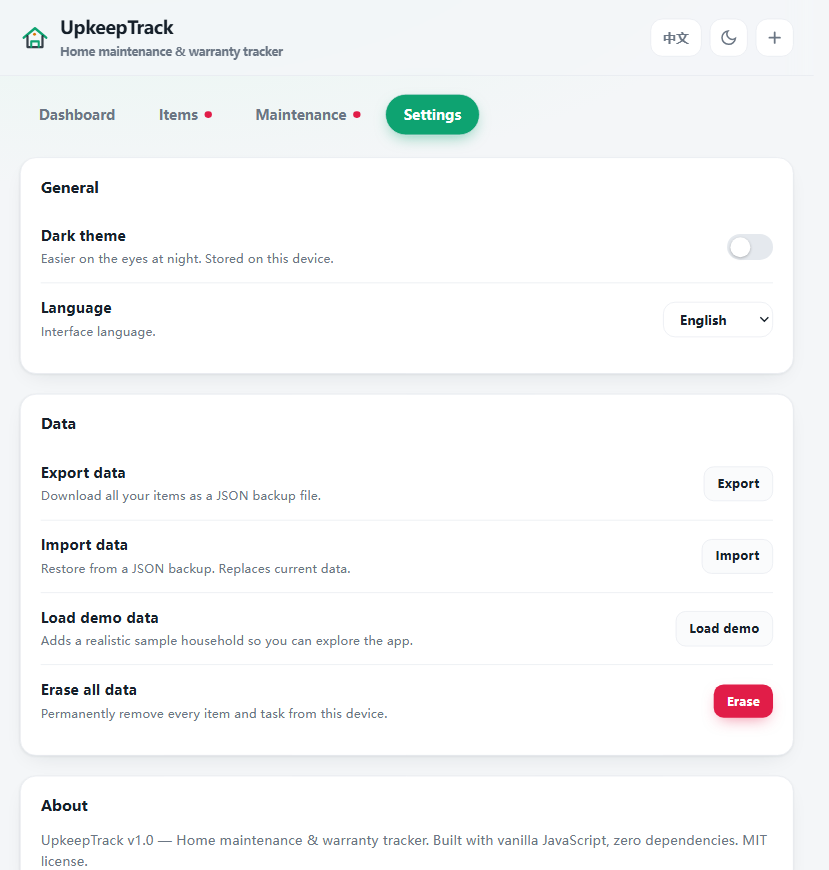
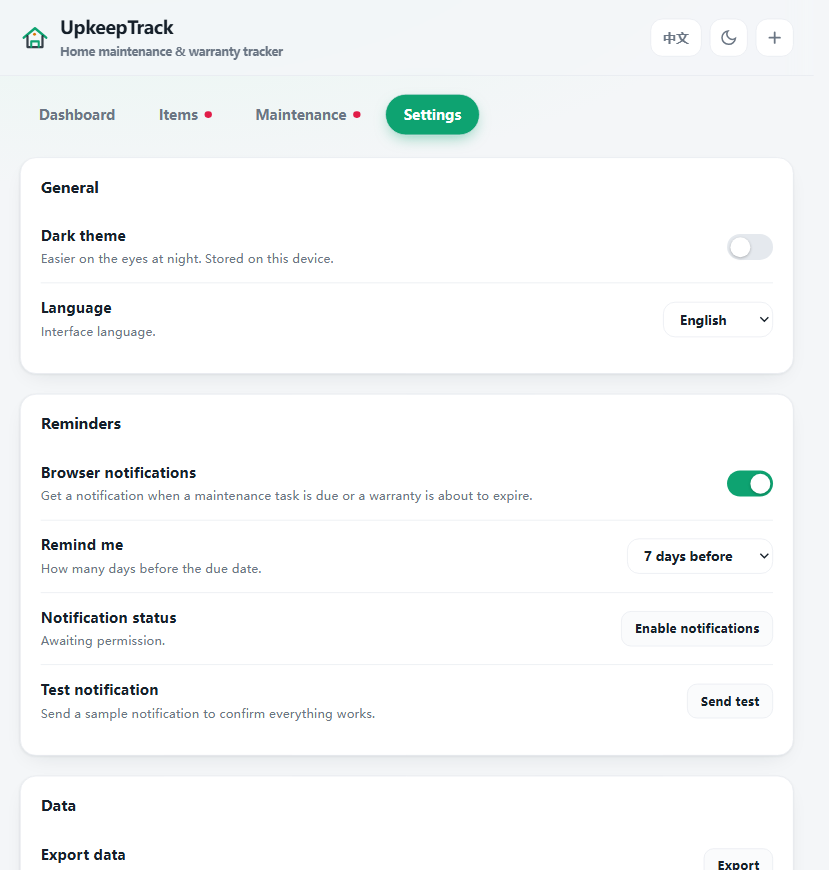
Add browser notification reminders (configurable lead time, EN/ZH)

diff --git a/index.html b/index.html
@@ -435,6 +435,43 @@ footer a{color:var(--muted);font-weight:600}
   </div>
 
   <div class="panel">
+    <h3><span id="set-reminders">Reminders</span></h3>
+    <div class="set-row">
+      <div class="grow">
+        <h4 id="set-notif">Browser notifications</h4>
+        <p id="set-notif-desc">Get a notification when a task is due or a warranty is about to expire.</p>
+      </div>
+      <label class="switch"><input type="checkbox" id="notifToggle"><span></span></label>
+    </div>
+    <div class="set-row">
+      <div class="grow">
+        <h4 id="set-lead">Remind me</h4>
+        <p id="set-lead-desc">How many days before the due date.</p>
+      </div>
+      <select class="filter" id="leadSelect" style="min-width:130px">
+        <option value="0">On the due day</option>
+        <option value="1">1 day before</option>
+        <option value="3">3 days before</option>
+        <option value="7">7 days before</option>
+      </select>
+    </div>
+    <div class="set-row">
+      <div class="grow">
+        <h4 id="set-perm">Notification status</h4>
+        <p id="permStatus" style="max-width:420px"></p>
+      </div>
+      <button class="btn ghost sm" id="permBtn">Enable notifications</button>
+    </div>
+    <div class="set-row">
+      <div class="grow">
+        <h4 id="set-test">Test notification</h4>
+        <p id="set-test-desc">Send a sample notification to confirm everything works.</p>
+      </div>
+      <button class="btn ghost sm" id="testBtn">Send test</button>
+    </div>
+  </div>
+
+  <div class="panel">
     <h3><span id="set-data">Data</span></h3>
     <div class="set-row">
       <div class="grow">
@@ -518,6 +555,15 @@ const I18N = {
     taskDone:"Task marked as done", itemSaved:"Item saved", dataImported:"Data imported", dataExported:"Data exported",
     demoLoaded:"Demo data loaded", allCleared:"All data erased", invalidFile:"Invalid backup file",
     nameRequired:"Please enter a name.", taskNameReq:"Please enter a task name and a valid interval.",
+    setReminders:"Reminders", setNotif:"Browser notifications", setNotifDesc:"Get a notification when a maintenance task is due or a warranty is about to expire.",
+    setLead:"Remind me", setLeadDesc:"How many days before the due date.",
+    lead0:"On the due day", lead1:"1 day before", lead3:"3 days before", lead7:"7 days before",
+    setPerm:"Notification status", permBtn:"Enable notifications",
+    setTest:"Test notification", setTestDesc:"Send a sample notification to confirm everything works.", testBtn:"Send test",
+    permUnsupported:"Not supported by this browser.", permGranted:"Enabled — you will be notified.", permDefault:"Awaiting permission.", permDenied:"Blocked in browser settings.",
+    permInsecure:"Browser notifications need http://localhost or https — open the app via a local server (file:// blocks them).",
+    notifEnabled:"Notifications enabled", notifDisabled:"Notifications disabled", testSent:"Test notification sent", notifUnavailable:"Notifications unavailable here — open the app via http://localhost.",
+    ntfTask:"Maintenance due", ntfWarranty:"Warranty", ntfExpires:"Expires", ntfDue:"Due", ntfOverdue:"overdue",
     nextUp:"Next task", noTasks:"No maintenance tasks yet.",
     setGeneral:"General", setTheme:"Dark theme", setThemeDesc:"Easier on the eyes at night. Stored on this device.",
     setLang:"Language", setLangDesc:"Interface language.",
@@ -560,6 +606,15 @@ const I18N = {
     taskDone:"任务已标记完成", itemSaved:"已保存物品", dataImported:"已导入数据", dataExported:"已导出数据",
     demoLoaded:"已载入示例数据", allCleared:"已清除全部数据", invalidFile:"备份文件无效",
     nameRequired:"请输入名称。", taskNameReq:"请输入任务名称和有效的间隔天数。",
+    setReminders:"提醒", setNotif:"浏览器通知", setNotifDesc:"保养任务到期或保修即将过期时，通过浏览器通知提醒你。",
+    setLead:"提前提醒", setLeadDesc:"在到期日前多少天提醒。",
+    lead0:"到期当天", lead1:"提前 1 天", lead3:"提前 3 天", lead7:"提前 7 天",
+    setPerm:"通知状态", permBtn:"开启通知",
+    setTest:"测试通知", setTestDesc:"发送一条示例通知，确认一切正常。", testBtn:"发送测试",
+    permUnsupported:"当前浏览器不支持通知。", permGranted:"已开启——到期时会收到提醒。", permDefault:"等待授权。", permDenied:"已在浏览器设置中被阻止。",
+    permInsecure:"浏览器通知需要 http://localhost 或 https——请通过本地服务器打开应用（file:// 下不可用）。",
+    notifEnabled:"已开启通知", notifDisabled:"已关闭通知", testSent:"测试通知已发送", notifUnavailable:"当前环境无法发送通知——请通过 http://localhost 打开应用。",
+    ntfTask:"保养任务到期", ntfWarranty:"保修", ntfExpires:"到期", ntfDue:"到期", ntfOverdue:"已逾期",
     nextUp:"下一任务", noTasks:"还没有保养任务。",
     setGeneral:"通用", setTheme:"深色主题", setThemeDesc:"夜间更护眼，仅保存在本设备。",
     setLang:"语言", setLangDesc:"界面语言。",
@@ -597,7 +652,7 @@ const OVERDUE = "overdue", DUE = "due", SOON = "soon", LATER = "later", UNSCHEDU
 
 /* ---------- 3. State & persistence ---------- */
 const LS_KEY = "upkeeptrack.v1";
-let state = { items: [], theme: "light", lang: "en" };
+let state = { items: [], theme: "light", lang: "en", notify: { enabled:false, lead:1 }, notified: {} };
 
 function save(){
   localStorage.setItem(LS_KEY, JSON.stringify(state));
@@ -611,6 +666,11 @@ function load(){
     state.items.forEach(it => { if(!it.id) it.id = uid(); }); // normalize legacy backups
     state.theme = data.theme === "dark" ? "dark" : "light";
     state.lang = data.lang === "zh" ? "zh" : "en";
+    state.notify = {
+      enabled: !!(data.notify && data.notify.enabled),
+      lead: (data.notify && Number.isFinite(Number(data.notify.lead))) ? Number(data.notify.lead) : 1
+    };
+    state.notified = (data.notified && typeof data.notified === "object") ? data.notified : {};
   }catch(e){ /* corrupted storage → start fresh */ }
 }
 
@@ -721,7 +781,10 @@ function applyStatic(){
     "set-data":"setData", "set-export":"setExport", "set-export-desc":"setExportDesc",
     "set-import":"setImport", "set-import-desc":"setImportDesc",
     "set-demo":"setDemo", "set-demo-desc":"setDemoDesc",
-    "set-clear":"setClear", "set-clear-desc":"setClearDesc", "set-about":"setAbout"
+    "set-clear":"setClear", "set-clear-desc":"setClearDesc", "set-about":"setAbout",
+    "set-reminders":"setReminders", "set-notif":"setNotif", "set-notif-desc":"setNotifDesc",
+    "set-lead":"setLead", "set-lead-desc":"setLeadDesc", "set-perm":"setPerm",
+    "set-test":"setTest", "set-test-desc":"setTestDesc"
   };
   for(const id in map){ const n = document.getElementById(id); if(n) n.textContent = t(map[id]); }
   $("#searchInput").placeholder = t("searchPlaceholder");
@@ -734,6 +797,14 @@ function applyStatic(){
      <option value="expired">${t("stExpired")}</option>
      <option value="none">${t("stNone")}</option>`;
   $("#statusFilter").value = statusFilter;
+  $("#leadSelect").innerHTML =
+    `<option value="0">${t("lead0")}</option>
+     <option value="1">${t("lead1")}</option>
+     <option value="3">${t("lead3")}</option>
+     <option value="7">${t("lead7")}</option>`;
+  $("#leadSelect").value = state.notify.lead;
+  $("#notifToggle").checked = state.notify.enabled;
+  renderPermStatus();
 }
 
 function render(){
@@ -936,7 +1007,7 @@ function renderMaintenance(){
 
 /* --- Settings --- */
 function renderSettings(){
-  $("#about-text").textContent = `UpkeepTrack v1.0 — ${t("tagline")}. Built with vanilla JavaScript, zero dependencies. MIT license.`;
+  $("#about-text").textContent = `UpkeepTrack v1.1 — ${t("tagline")}. Built with vanilla JavaScript, zero dependencies. MIT license.`;
 }
 
 /* ---------- 7. Modals ---------- */
@@ -1119,6 +1190,79 @@ function toast(msg){
   setTimeout(() => { n.style.opacity = "0"; n.style.transition = "opacity .3s"; setTimeout(() => n.remove(), 300); }, 2200);
 }
 
+/* ---------- 8b. Browser notifications engine ---------- */
+const notifySupported = () => ("Notification" in window);
+
+// Fire one system notification; returns false when the environment cannot show it.
+function fireNotification(title, body){
+  try{
+    if(!notifySupported() || Notification.permission !== "granted" || !window.isSecureContext) return false;
+    const n = new Notification(title, { body, tag: "upkeeptrack" });
+    n.onclick = () => { window.focus(); n.close(); };
+    return true;
+  }catch(e){ return false; }
+}
+
+// Called on start and every minute: notify once per due event (task/warranty) per occurrence.
+function checkReminders(){
+  if(!state.notify.enabled || !notifySupported() || Notification.permission !== "granted" || !window.isSecureContext) return;
+  const today = todayISO();
+  const horizon = addDaysTo(today, state.notify.lead ?? 1);
+  let fired = 0;
+  state.items.forEach(it => {
+    const end = warrantyEnd(it);
+    if(end && end <= horizon){
+      const key = "w:" + it.id + ":" + end;
+      if(!state.notified[key]){
+        const st = warrantyStatus(it);
+        const rel = st === EXPIRED ? t("ntfOverdue") : fmtRel(end);
+        const title = t("ntfWarranty") + " " + t(st === EXPIRED ? "warrantyExpired" : "warrantyExpiring") + ": " + it.name;
+        if(fireNotification(title, t("ntfExpires") + " " + fmtDate(end) + " (" + rel + ")")){
+          state.notified[key] = today; fired++;
+        }
+      }
+    }
+    allTasks(it).forEach(tk => {
+      const due = nextDue(tk);
+      if(due && due <= horizon){
+        const key = "t:" + it.id + ":" + tk.id + ":" + due;
+        if(!state.notified[key]){
+          const st = taskStatus(tk);
+          const rel = st === OVERDUE ? t("ntfOverdue") : fmtRel(due);
+          const title = t("ntfTask") + ": " + tk.name;
+          if(fireNotification(title, it.name + " — " + t("ntfDue") + " " + fmtDate(due) + " (" + rel + ")")){
+            state.notified[key] = today; fired++;
+          }
+        }
+      }
+    });
+  });
+  if(fired > 0){
+    // Drop keys older than a week to keep storage small.
+    const cutoff = addDaysTo(today, -7);
+    Object.keys(state.notified).forEach(k => { if(state.notified[k] < cutoff) delete state.notified[k]; });
+    save();
+  }
+}
+
+// Reflect the current notification permission state in the Settings panel.
+function renderPermStatus(){
+  const status = $("#permStatus"), btn = $("#permBtn");
+  if(!notifySupported()){ status.textContent = t("permUnsupported"); btn.style.display = "none"; return; }
+  btn.style.display = "";
+  const p = Notification.permission;
+  if(p === "granted"){
+    status.textContent = window.isSecureContext ? t("permGranted") : t("permInsecure");
+    btn.textContent = t("testBtn");
+  }else if(p === "denied"){
+    status.textContent = t("permDenied") + " " + t("permInsecure");
+    btn.textContent = t("permBtn");
+  }else{
+    status.textContent = t("permDefault");
+    btn.textContent = t("permBtn");
+  }
+}
+
 /* ---------- 9. Global events ---------- */
 function switchView(name){
   document.querySelectorAll(".tab").forEach(b => b.classList.toggle("active", b.dataset.view === name));
@@ -1171,6 +1315,60 @@ function setLang(l){
 }
 
 // Settings actions.
+$("#notifToggle").addEventListener("change", async e => {
+  const want = e.target.checked;
+  if(!want){
+    state.notify.enabled = false; save(); render();
+    toast(t("notifDisabled")); return;
+  }
+  if(!notifySupported()){
+    e.target.checked = false; state.notify.enabled = false; save(); render();
+    toast(t("notifUnavailable")); return;
+  }
+  if(Notification.permission === "default"){
+    const p = await Notification.requestPermission();
+    if(p !== "granted"){
+      e.target.checked = false; state.notify.enabled = false; save(); render(); renderPermStatus();
+      toast(Notification.permission === "denied" ? t("permDenied") : t("permInsecure"));
+      return;
+    }
+  }
+  if(Notification.permission !== "granted" || !window.isSecureContext){
+    e.target.checked = false; state.notify.enabled = false; save(); render(); renderPermStatus();
+    toast(t("permInsecure")); return;
+  }
+  state.notify.enabled = true; save(); render();
+  toast(t("notifEnabled")); checkReminders();
+});
+$("#leadSelect").addEventListener("change", e => {
+  state.notify.lead = Number(e.target.value);
+  save();
+});
+$("#permBtn").addEventListener("click", async () => {
+  if(!notifySupported()) return;
+  if(Notification.permission === "granted"){
+    if(fireNotification("UpkeepTrack", t("testSent"))) toast(t("testSent"));
+    else toast(t("notifUnavailable"));
+    return;
+  }
+  if(Notification.permission === "default"){
+    const p = await Notification.requestPermission();
+    if(p === "granted"){
+      toast(t("notifEnabled")); state.notify.enabled = true; save(); render(); checkReminders();
+    }else{
+      renderPermStatus(); toast(t("permInsecure"));
+    }
+  }else{
+    renderPermStatus(); toast(t("permDenied"));
+  }
+});
+$("#testBtn").addEventListener("click", () => {
+  if(!notifySupported() || Notification.permission !== "granted" || !window.isSecureContext){
+    toast(t("notifUnavailable")); return;
+  }
+  if(fireNotification("UpkeepTrack", t("testSent"))) toast(t("testSent"));
+});
+
 $("#exportBtn").addEventListener("click", () => {
   const blob = new Blob([JSON.stringify({ app:"UpkeepTrack", version:1, exportedAt:new Date().toISOString(), items:state.items }, null, 2)], { type:"application/json" });
   const a = document.createElement("a");
@@ -1214,6 +1412,8 @@ lang = state.lang;
 document.documentElement.lang = lang;
 document.title = lang === "zh" ? "UpkeepTrack — 家庭物品保养与保修跟踪" : "UpkeepTrack — Home Maintenance & Warranty Tracker";
 render();
+checkReminders();          // notify immediately for anything already due
+setInterval(checkReminders, 60000); // …and keep watching while the tab is open
 </script>
 </body>
 </html>

diff --git a/README.md b/README.md
@@ -20,6 +20,7 @@ UpkeepTrack takes the opposite route: **one HTML file you double-click**. Your d
 | 🛡 **Warranty tracking** | purchase date + warranty length → automatic status (`Active` / `Expiring` / `Expired`), progress bar, days-left countdown |
 | 🧰 **Recurring maintenance** | tasks with custom intervals (e.g. "wash AC filter every 90 days"); next due date is computed from the last time you did it |
 | ✅ **One-click "Mark done"** | logs the date automatically and schedules the next occurrence |
+| 🔔 **Browser notifications** | optional reminders when a task comes due or a warranty expires — lead time configurable (same day / 1 / 3 / 7 days) |
 | 📊 **Dashboard** | stats, a "needs attention" list (expiring warranties + overdue tasks) and a 30-day timeline |
 | 🔍 **Search & filters** | full-text search, category chips, warranty-status filter |
 | 🌐 **Bilingual** | English and 中文, switchable in one click |
@@ -65,10 +66,13 @@ That's it. No `npm install`, no build, no server required.
 
 > 💡 Tip: after you finish a task, hit **Mark done** — UpkeepTrack automatically moves the task to its next due date.
 
+> 🔔 Reminders: browser notifications need a secure context. Open the app via `http://localhost` (e.g. `python -m http.server`) or https, keep the tab open, and enable them in **Settings → Reminders**. On `file://` they are unavailable and the app tells you why.
+
 ## 🔐 Privacy
 
 - All data lives in your browser's `localStorage` on **your** device.
 - The app makes **zero network requests** — it works fully offline.
+- Browser notifications (if enabled) are generated locally by your browser and never leave your device.
 - No analytics, no cookies, no accounts, no servers.
 
 ## 🛠 Tech
